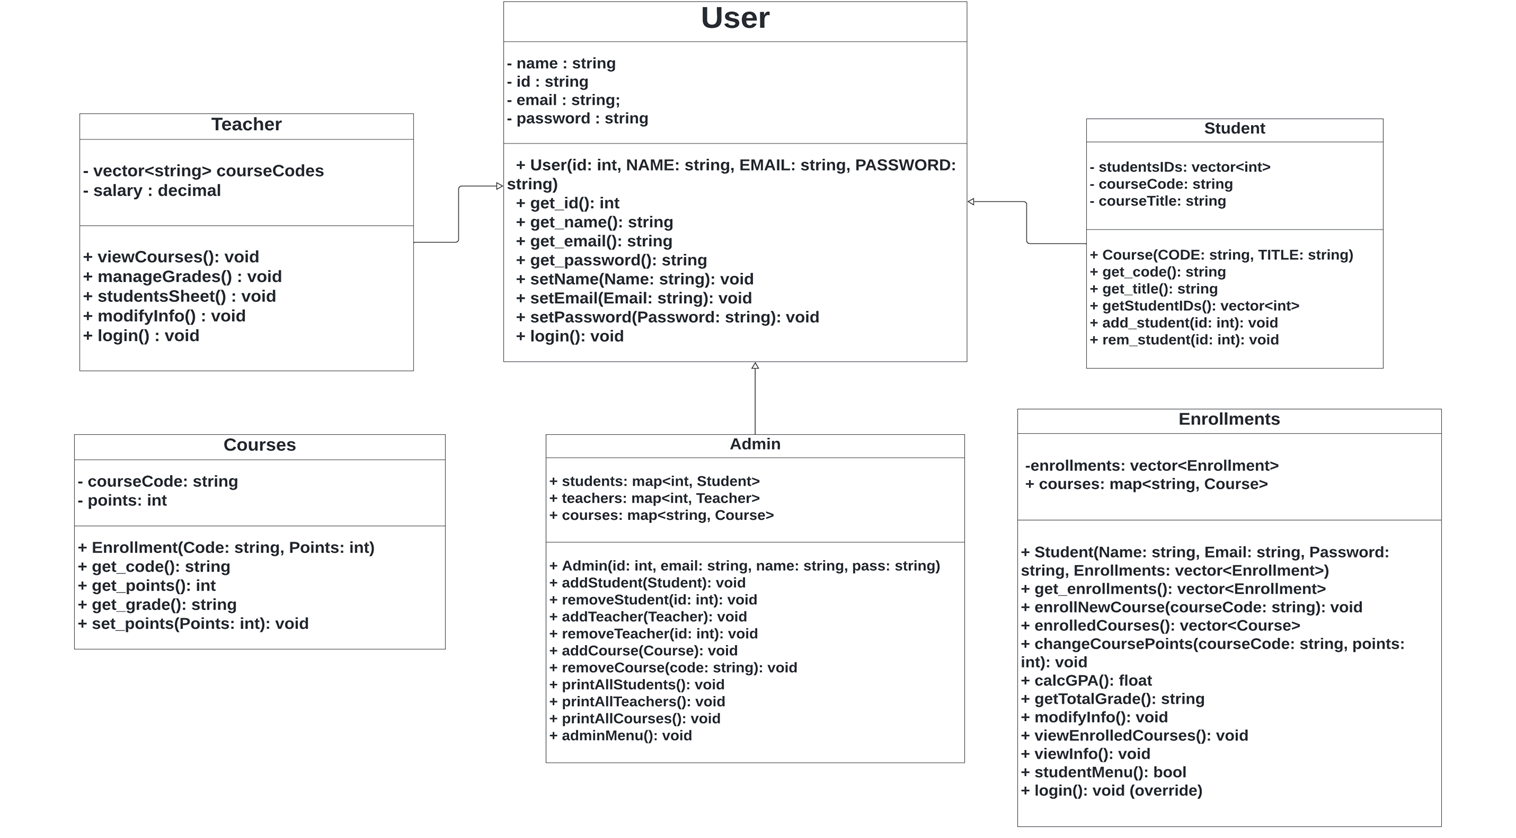
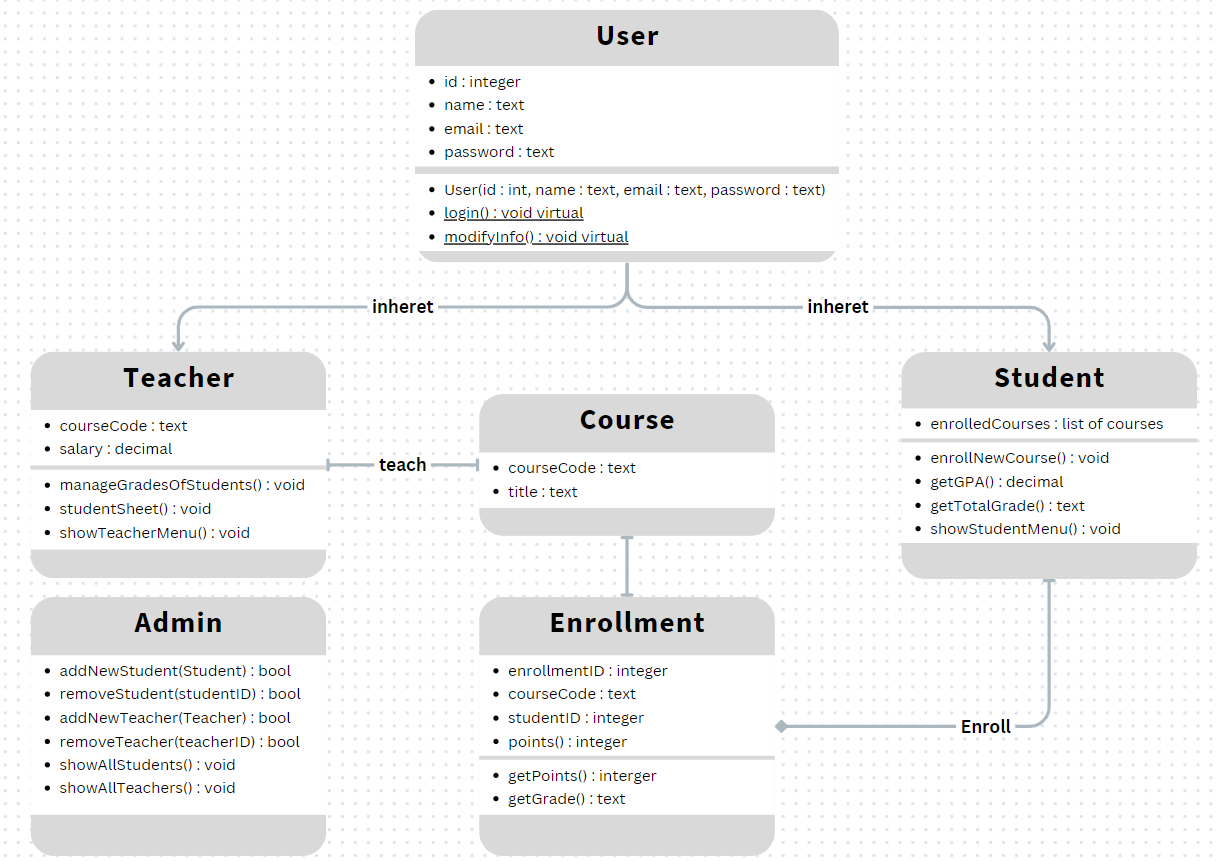
update uml class diagram

diff --git a/README.md b/README.md
@@ -4,7 +4,7 @@
 - [Introduction](#introduction)
 - [Database Schema](#database-schema)
 - [SRS](resources/md/SRS.md)
-- [UML](#uml)
+- [UML Class Diagram](#uml-class-diagram)
 - [DFD](#dfd)
   - [Context Level](#context-level)
   - [Level 0](#level-0)
@@ -22,7 +22,7 @@
 > The Software Requirements Specification document can be found [here](resources/md/SRS.md)
 
 
-## UML
+## UML Class Diagram
 > The UML diagram is as follows:
 <img src="resources/images/uml.png">
 
